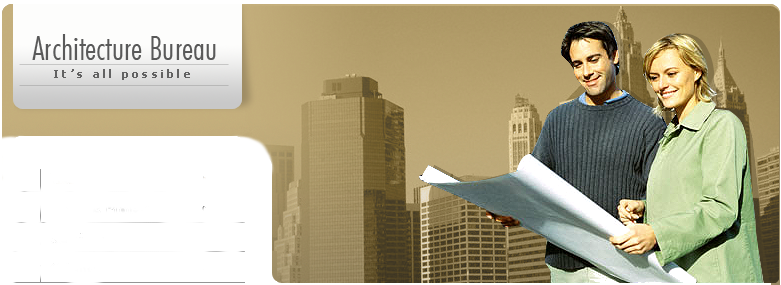
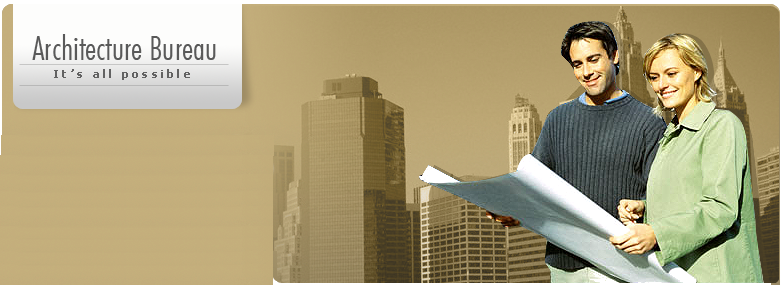
hasta acá va queriendo el 14

Changed region(s): [[0.0, 0.4772, 0.3688, 1.0]]

diff --git a/css/estilo8.css b/css/estilo8.css
@@ -1,30 +1,28 @@
-*{
-	margin: 0px auto;
-}
 li{
 	list-style: none;
 }
-a{
-	text-decoration: none;
+h3, h4{
+	font-weight: thin;
+	padding-bottom:0px; 
 }
-#container{
-	width: 60%;
+.container{
+	width: 70%;
 	min-height: 80%;
-	background: #DFD4B5;
+	margin:0px auto;
+	/*background: #DFD4B5;
+	border:5px solid #8D7E5C;*/
 	border-radius: 0px 0px 10px 10px;
-	border:3px solid #8D7E5C;
 	float:left;
+	font-family: Arial;
 }
-#sidebar{
+.sidebar{
 	height: 90%;
-	width: 30%;
+	width: 235px;
 	float:left;
 	margin-bottom: 10px;
 }
-#icon{
+.icon{
 	height: 90px;
-	margin-right: 5px;
-	margin-left: 5px;
 	margin-bottom: 10px;
 	border-radius: 0px 0px 5px 5px;
 	box-shadow: 10px 3px 10px #888888;
@@ -38,24 +36,22 @@ a{
     background: linear-gradient(to bottom, rgba(255,255,255,1) 0%,rgba(204,204,204,1) 100%); /* W3C */
     filter: progid:DXImageTransform.Microsoft.gradient( startColorstr='#eeeeee', endColorstr='#cccccc',GradientType=0 ); /* IE6-9 */
 }
-#icon p{
+.icon p{
 	font-size: 1em;
 }
-#controls{
-	position:absolute;
-	top:120px;
-	margin-right: 5px;
-	margin-left: 10px;
+.controls{
 	margin-top: 20px;
 	border: 2px solid #8D7E5C;
 	border-radius: 5px 5px 5px 5px;
 }
-#recent{
-	margin-right: 5px;
-	margin-left: 5px;
+.controls a{
+	text-decoration: none;
+}
+.recent{
 	margin-top: 20px;
 	font-size: 0.9em;
-	border: 2px solid #8D7E5C;
+	/*border: 2px solid #8D7E5C;*/
+	text-align: justify;
 	border-radius: 5px 5px 5px 5px;
 	background: rgb(249,252,247); /* Old browsers */
     background: -moz-linear-gradient(left, rgba(249,252,247,1) 0%, rgba(245,249,240,1) 100%); /* FF3.6+ */
@@ -66,22 +62,58 @@ a{
     background: linear-gradient(to right, rgba(249,252,247,1) 0%,rgba(245,249,240,1) 100%); /* W3C */
     filter: progid:DXImageTransform.Microsoft.gradient( startColorstr='#f9fcf7', endColorstr='#f5f9f0',GradientType=1 ); /* IE6-9 */
 }
-#support{
-	
+.recent article{
+	padding-left: 20px;
+	padding-right: 20px;
 }
-#arch{
+.more{
+	float:right;
+}
+.centerx p{
+	font-size: 0.8em;
+}
+.support{
+	width: 235px;
+	height: 100px;
+	background: url(../img/support.png);
+}
+.lady{
+	width: 148px;
+	height: 114px;
+	border:5px solid #E7E0CE;
+	float:left;
+	padding-left: 2px;
+	padding-right: 2px;
+	margin-right: 20px;
+	border-radius: 5px 5px 5px 5px;
+	background: url(../img/arq2.png) -101px -9px;
+}
+.arch{
 	font-size: 2em;
 }	
-#center{
+.center{
 	height: 90%;
-	width: 70%;
+	width: 68%;
 	margin-right: 5px;
 	margin-left: 5px;
 	float:left;
-	border:3px solid #8D7E5C;
+	/*border:3px solid #8D7E5C;*/
+}
+.centerx{
+	float:left;
+}
+.cabecera{
+	width: 505px;
+	height: 274px;
+	float:right;
+	background: url(../img/arq3.png);
+	border-radius: 0px 0px 20px 20px;
 }
 footer{
-	height: 10%;
-	width: 100%;
+	padding-top: 20px;
+	width: 70%;
+	height: 50px;
+	float:left;
+	text-align: center;
 	background: #DFD4B5;
 }

diff --git a/ejer14.html b/ejer14.html
@@ -6,15 +6,15 @@
 	<link rel="stylesheet" href="css/estilo8.css">
 </head>
 <body>
-	<div id="container">
-		<div id="sidebar">
-			<div id="icon">
+	<div class="container">
+		<div class="sidebar">
+			<div class="icon">
 				<p id="arch">Architecture Boureau</p>
 				<hr>
 				Its all possible
 				<hr>
 			</div>
-			<div id="controls">
+			<div class="controls">
 				<ul>
 					<li><a href="#">Home</a></li>
 					<li><a href="#">Recent Projects</a></li>
@@ -24,41 +24,48 @@
 					<li><a href="#">Contact Us</a></li>
 				</ul>
 			</div>
-			<div id="recent">
+			<div class="recent">
 				<article>
 					<h4>22/3/15</h4>
 					<p>Lorem ipsum dolor sit amet, consectetur adipisicing elit.</p>
 				</article>
+				<hr />
 				<article>
 					<h4>22/3/15</h4>
-					<p>Lorem ipsum dolor sit amet, consectetur adipisicing elit.</p>
+					<p>Lorem ipsum dolor sit amet, consectetur adipisicing elit.
+					<a class="more" href="#">more</a></p>
 				</article>
 			</div>
-			<div id="support">
-				
+			<div class="support">
 			</div>
 		</div>
-		<div id="center">
-			<div>
-				<h1>se supone que aca va algo</h1>
+		<div class="center">
+			<img class="cabecera" alt="">
+			<div class="centerx">
+				<h3>Welcome to our site!</h3>
+				<hr />
 				<p>
+				<img class="lady" alt="">
 					Lorem ipsum dolor sit amet, consectetur adipisicing elit. Ullam inventore, dolorem magni esse quisquam aliquam tenetur numquam nisi porro. Animi magnam qui praesentium excepturi. Molestias saepe iste delectus nostrum mollitia!
 				</p>
+				<p>
+					Lorem ipsum dolor sit amet, consectetur adipisicing elit. Facere ab accusamus, obcaecati vero. Ad, molestias tempora! Cum beatae mollitia tempora aspernatur, assumenda voluptatum, quidem laudantium veritatis, molestiae, totam impedit! Repellat.
+				<a class="more" href="#">more</a>
+				</p>
+				<h4>Company Profile</h4>
+				<hr>
+					<article>
+						alskdjalsd
+					</article>
+					<article>
+						alskdjalksdja
+					</article>
 				
 			</div>
-			<div>
-			<hr>
-				<article>
-					alskdjalsd
-				</article>
-				<article>
-					alskdjalksdja
-				</article>
-			</div>
 		</div>
+	</div>
 	<footer>
 		Copyright 2007 Company Name All right reserved.
 	</footer>
-	</div>
 </body>
 </html>
